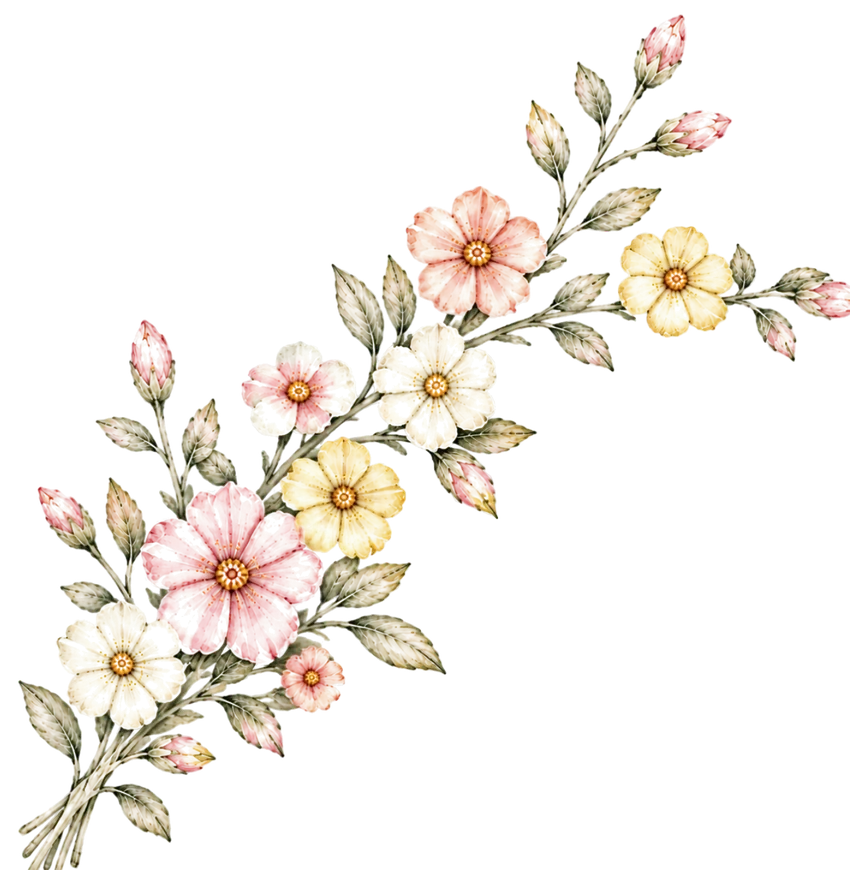
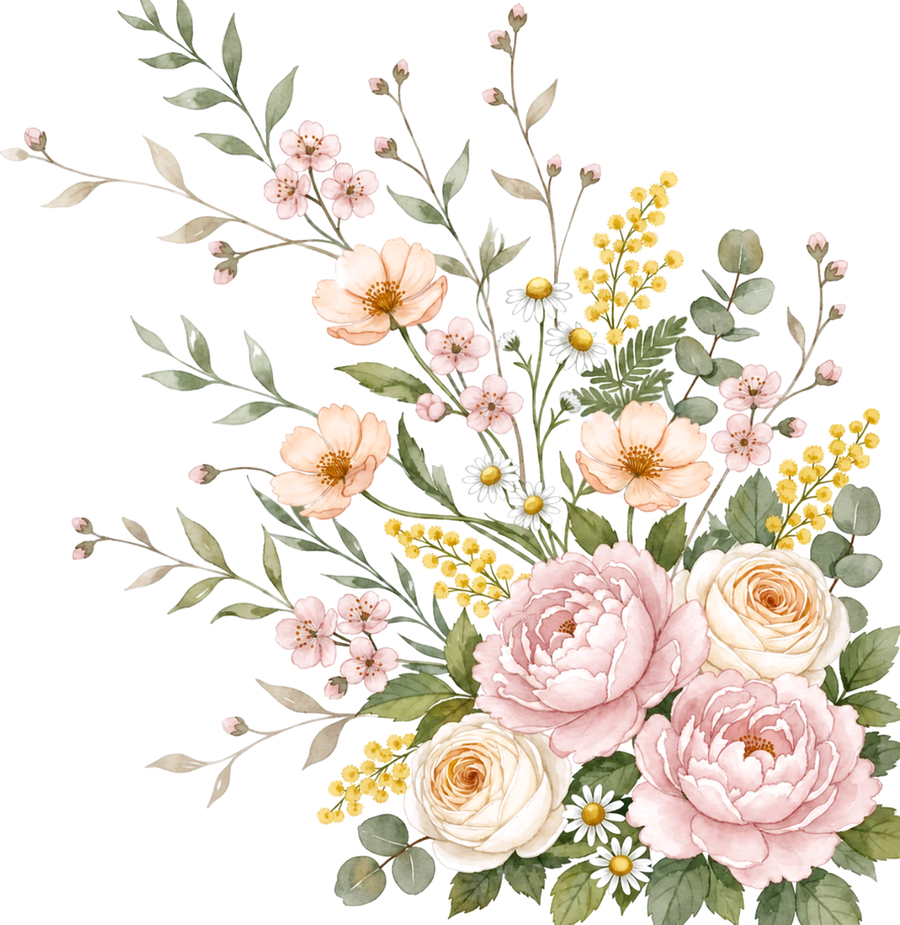
feat: refresh opening flowers to match the side branches
Claude-Session: https://claude.ai/code/session_01KqKvaSWbrf46C5DNXcLLwJ

diff --git a/index.html b/index.html
@@ -9,7 +9,7 @@
   <link rel="preconnect" href="https://fonts.gstatic.com" crossorigin>
   <link rel="stylesheet" href="https://fonts.googleapis.com/css2?family=Cormorant+Garamond:ital,wght@0,300;0,400;1,300;1,400&amp;family=Jost:wght@300;400;500&amp;display=swap">
   <link rel="preload" href="assets/fonts/milton-two.otf" as="font" type="font/otf" crossorigin>
-  <link rel="stylesheet" href="css/style.css?v=29">
+  <link rel="stylesheet" href="css/style.css?v=30">
 </head>
 <body>
 
@@ -27,8 +27,8 @@
 
   <!-- Première étape : le titre seul entre les fleurs -->
   <div class="ouverture" id="accueil" data-etape="Accueil">
-    <img class="fleurs fleurs-haut" src="assets/images/fleurs-haut-gauche.webp" alt="" width="900" height="883">
-    <img class="fleurs fleurs-bas" src="assets/images/fleurs-bas-droite.webp" alt="" width="850" height="870">
+    <img class="fleurs fleurs-haut" src="assets/images/fleurs-haut-gauche.webp" alt="" width="900" height="1061">
+    <img class="fleurs fleurs-bas" src="assets/images/fleurs-bas-droite.webp" alt="" width="900" height="925">
 
     <section class="ouverture-titre" aria-labelledby="titre-accueil">
       <p class="surtitre">Nous nous marions</p>
@@ -223,6 +223,6 @@
     <p class="pied-date">25 · 09 · 2027</p>
   </footer>
 
-  <script src="js/main.js?v=29"></script>
+  <script src="js/main.js?v=30"></script>
 </body>
 </html>

diff --git a/css/style.css b/css/style.css
@@ -214,8 +214,8 @@ h3 { margin: 0; }
   position: absolute;
   pointer-events: none;
 }
-.fleurs-haut { left: clamp(6px, 1.5vw, 24px); top: clamp(6px, 1.5vw, 24px); width: clamp(190px, 30vw, 430px); }
-.fleurs-bas { right: clamp(6px, 1.5vw, 24px); bottom: clamp(6px, 1.5vw, 24px); width: clamp(180px, 28vw, 400px); }
+.fleurs-haut { left: 0; top: 0; width: clamp(200px, 25vw, 380px); }
+.fleurs-bas { right: 0; bottom: 0; width: clamp(200px, 30vw, 440px); }
 
 .ouverture-titre {
   position: relative;
@@ -655,7 +655,7 @@ td.par { font-family: var(--serif); font-style: italic; font-size: 18px; }
   .nav a[href="index.html"] { display: none; }
   .nav .nav-reponse { padding: 10px 16px; }
   .fleurs-haut { width: 165px; }
-  .fleurs-bas { width: 170px; }
+  .fleurs-bas { width: 195px; }
   .ouverture { min-height: 560px; }
   .defiler { margin-top: 40px; }
   .etape { padding: 0; }

diff --git a/merci-non.html b/merci-non.html
@@ -8,7 +8,7 @@
   <link rel="preconnect" href="https://fonts.gstatic.com" crossorigin>
   <link rel="stylesheet" href="https://fonts.googleapis.com/css2?family=Cormorant+Garamond:ital,wght@0,300;0,400;1,300;1,400&amp;family=Jost:wght@300;400;500&amp;display=swap">
   <link rel="preload" href="assets/fonts/milton-two.otf" as="font" type="font/otf" crossorigin>
-  <link rel="stylesheet" href="css/style.css?v=29">
+  <link rel="stylesheet" href="css/style.css?v=30">
 </head>
 <body>
 <div class="page page-merci">
@@ -39,6 +39,6 @@
     <a class="lien-retour" href="index.html" style="margin-top: 40px">← Retour au site</a>
   </main>
 </div>
-<script src="js/main.js?v=29"></script>
+<script src="js/main.js?v=30"></script>
 </body>
 </html>

diff --git a/musiques.html b/musiques.html
@@ -8,7 +8,7 @@
   <link rel="preconnect" href="https://fonts.gstatic.com" crossorigin>
   <link rel="stylesheet" href="https://fonts.googleapis.com/css2?family=Cormorant+Garamond:ital,wght@0,300;0,400;1,300;1,400&amp;family=Jost:wght@300;400;500&amp;display=swap">
   <link rel="preload" href="assets/fonts/milton-two.otf" as="font" type="font/otf" crossorigin>
-  <link rel="stylesheet" href="css/style.css?v=29">
+  <link rel="stylesheet" href="css/style.css?v=30">
 </head>
 <body>
 <div class="page page-musiques">
@@ -80,6 +80,6 @@
     <a class="lien-retour" href="index.html">← Retour au site</a>
   </main>
 </div>
-<script src="js/main.js?v=29"></script>
+<script src="js/main.js?v=30"></script>
 </body>
 </html>

diff --git a/merci-oui.html b/merci-oui.html
@@ -8,7 +8,7 @@
   <link rel="preconnect" href="https://fonts.gstatic.com" crossorigin>
   <link rel="stylesheet" href="https://fonts.googleapis.com/css2?family=Cormorant+Garamond:ital,wght@0,300;0,400;1,300;1,400&amp;family=Jost:wght@300;400;500&amp;display=swap">
   <link rel="preload" href="assets/fonts/milton-two.otf" as="font" type="font/otf" crossorigin>
-  <link rel="stylesheet" href="css/style.css?v=29">
+  <link rel="stylesheet" href="css/style.css?v=30">
 </head>
 <body>
 <div class="page page-merci">
@@ -43,6 +43,6 @@
     <a class="lien-retour" href="index.html">← Retour au site</a>
   </main>
 </div>
-<script src="js/main.js?v=29"></script>
+<script src="js/main.js?v=30"></script>
 </body>
 </html>

diff --git a/rsvp.html b/rsvp.html
@@ -8,7 +8,7 @@
   <link rel="preconnect" href="https://fonts.gstatic.com" crossorigin>
   <link rel="stylesheet" href="https://fonts.googleapis.com/css2?family=Cormorant+Garamond:ital,wght@0,300;0,400;1,300;1,400&amp;family=Jost:wght@300;400;500&amp;display=swap">
   <link rel="preload" href="assets/fonts/milton-two.otf" as="font" type="font/otf" crossorigin>
-  <link rel="stylesheet" href="css/style.css?v=29">
+  <link rel="stylesheet" href="css/style.css?v=30">
 </head>
 <body>
 <div class="page page-reponse">
@@ -86,6 +86,6 @@
     </form>
   </main>
 </div>
-<script src="js/main.js?v=29"></script>
+<script src="js/main.js?v=30"></script>
 </body>
 </html>
